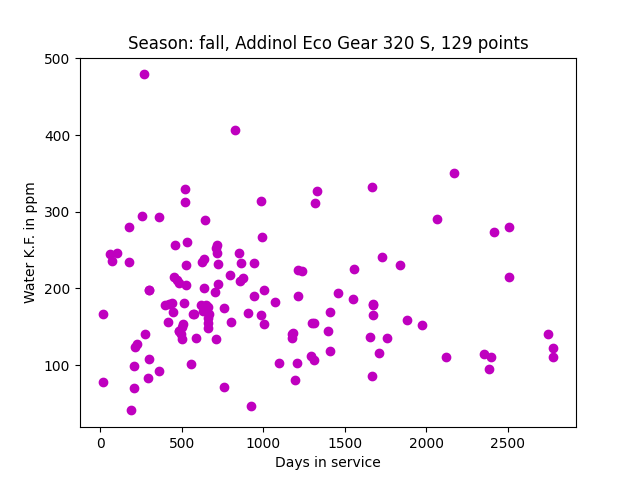
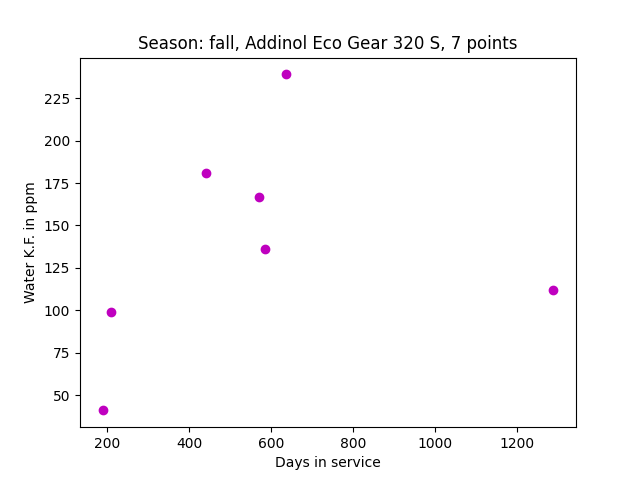
Sep 29, 2022, 5:36 PM

diff --git a/project/project.py b/project/project.py
@@ -8,7 +8,7 @@ fn2 = f"{path_proj}/dataset2.csv"
 #fn3 = f"{path_proj}/project/dataset3.csv"
 fn3 = "dataset3.csv"
 
-fn_list = [fn1, fn2]
+fn_list = [fn3, fn1, fn2]
 
 def main():
     ds_list = []
